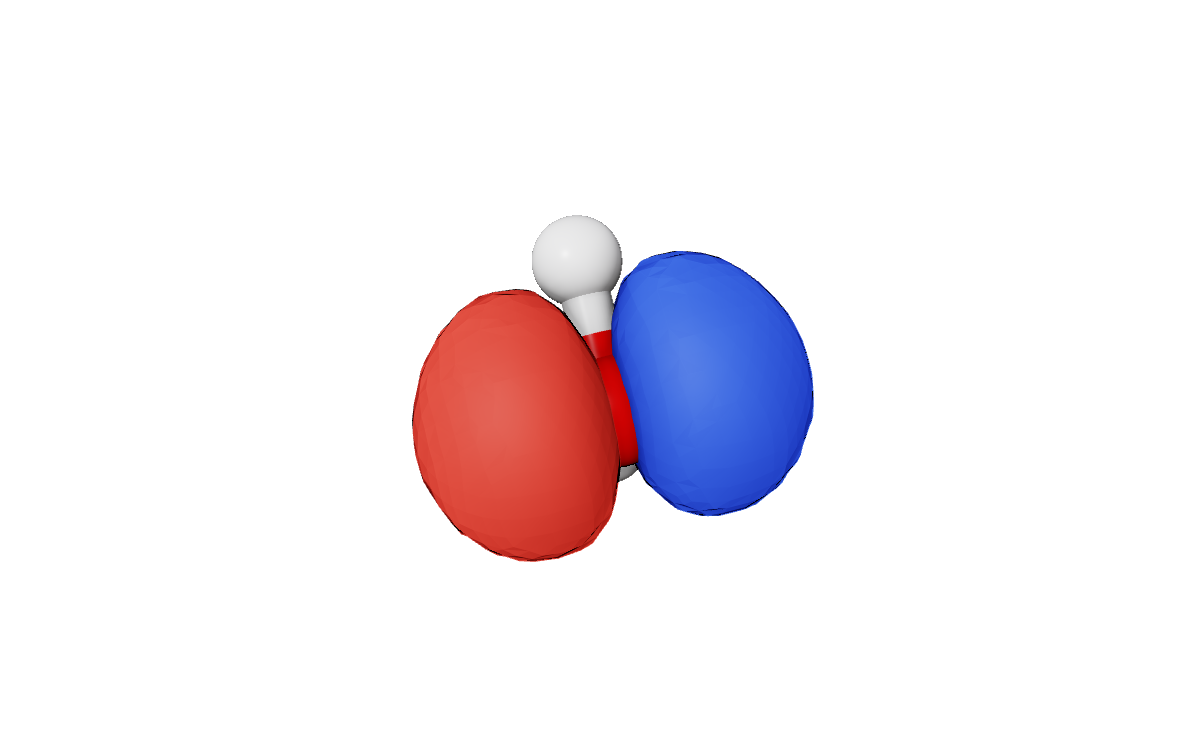
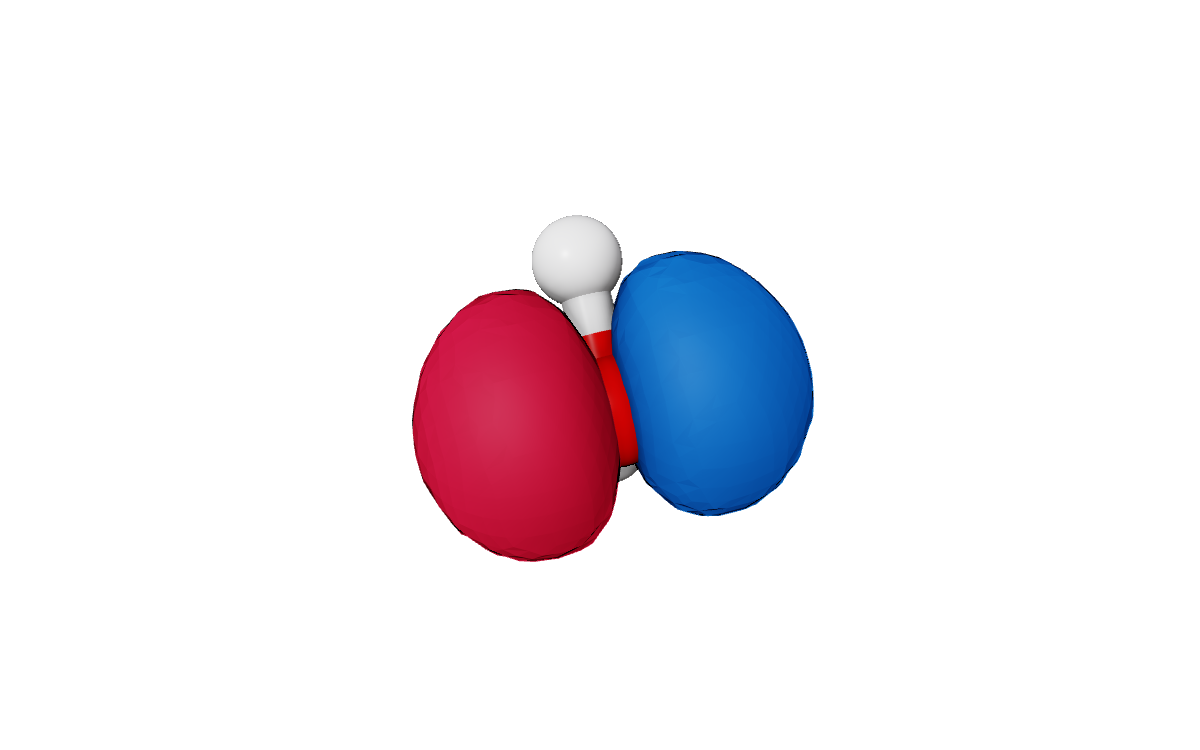
Orbital lobes in deep azure and crimson, apart from the N and O atom colors
The default blue/red had the hues of the CPK N and O colors (CIEDE2000 3.4
and 7.8), so lobes on those atoms merged with them. Deep azure (20, 95, 170)
and crimson (175, 25, 60) stay blue and red but are 12.8 from N and 21.8
from O. Reference scenes use the new pair; guide pictures regenerated.

Changed region(s): [[0.3392, 0.3373, 0.6783, 0.7667]]

diff --git a/crates/app/tests/render_reference.rs b/crates/app/tests/render_reference.rs
@@ -74,17 +74,17 @@ fn orbital(orbital: usize, opacity: f32, refinement: usize, set: Option<&str>, b
     let set = set.map(|s| format!("orbital_set = \"{s}\"\n")).unwrap_or_default();
     format!(
         "[[structures.surfaces]]\nlabel = \"orbital\"\nvisible = true\nisovalue = 0.075\nrefinement = {refinement}\nboth_signs = true\n\
-         positive_color = [60, 90, 230, 255]\nnegative_color = [220, 70, 60, 255]\nopacity = {opacity}\nby_fragment = {by_fragment}\n\
+         positive_color = [20, 95, 170, 255]\nnegative_color = [175, 25, 60, 255]\nopacity = {opacity}\nby_fragment = {by_fragment}\n\
          kind = \"orbital\"\nspin = \"alpha\"\norbital = {orbital}\ngrid_spacing_bohr = 0.28\nbox_padding_bohr = 4.0\n{set}"
     )
 }
 
 /// The total or spin density (opaque; see `translucent`).
 fn density(spin: bool) -> String {
-    let (isovalue, both, positive) = if spin { (0.01, true, "[60, 90, 230, 255]") } else { (0.1, false, "[120, 160, 210, 255]") };
+    let (isovalue, both, positive) = if spin { (0.01, true, "[20, 95, 170, 255]") } else { (0.1, false, "[120, 160, 210, 255]") };
     format!(
         "[[structures.surfaces]]\nlabel = \"density\"\nvisible = true\nisovalue = {isovalue}\nrefinement = 1\nboth_signs = {both}\n\
-         positive_color = {positive}\nnegative_color = [220, 70, 60, 255]\nopacity = 1.0\nby_fragment = false\n\
+         positive_color = {positive}\nnegative_color = [175, 25, 60, 255]\nopacity = 1.0\nby_fragment = false\n\
          kind = \"density\"\nspin_density = {spin}\ngrid_spacing_bohr = 0.28\nbox_padding_bohr = 4.0\n"
     )
 }
@@ -95,8 +95,8 @@ fn translucent(surface: String, opacity: f32, colors: Option<(&str, &str)>) -> S
     let surface = surface.replace("opacity = 1.0", &format!("opacity = {opacity}")).replace("opacity = 1\n", &format!("opacity = {opacity}\n"));
     match colors {
         Some((positive, negative)) => surface
-            .replace("positive_color = [60, 90, 230, 255]", &format!("positive_color = {positive}"))
-            .replace("negative_color = [220, 70, 60, 255]", &format!("negative_color = {negative}")),
+            .replace("positive_color = [20, 95, 170, 255]", &format!("positive_color = {positive}"))
+            .replace("negative_color = [175, 25, 60, 255]", &format!("negative_color = {negative}")),
         None => surface,
     }
 }

diff --git a/crates/app/src/isosurfaces.rs b/crates/app/src/isosurfaces.rs
@@ -54,14 +54,22 @@ pub(crate) struct SurfaceSettings {
     pub(crate) by_fragment: bool,
 }
 
+/// Deep azure and crimson, chosen from comparison renders (2026-10-22):
+/// still blue and red, but deeper and slightly shifted in hue so a lobe on
+/// an N (CPK #3050F8) or O (#FF0D0D) atom doesn't merge with it (CIEDE2000
+/// 12.8 from N and 21.8 from O, was 3.4 and 7.8). Brighter hue shifts turn
+/// cyan and pink after tone mapping.
+const POSITIVE_COLOR: Color32 = Color32::from_rgb(20, 95, 170);
+const NEGATIVE_COLOR: Color32 = Color32::from_rgb(175, 25, 60);
+
 impl Default for SurfaceSettings {
     fn default() -> Self {
         Self {
             isovalue: DEFAULT_ISOSURFACE_ISOVALUE,
             refinement: 1,
             both_signs: true,
-            positive_color: Color32::from_rgb(60, 90, 230),
-            negative_color: Color32::from_rgb(220, 70, 60),
+            positive_color: POSITIVE_COLOR,
+            negative_color: NEGATIVE_COLOR,
             opacity: DEFAULT_ISOSURFACE_OPACITY,
             by_fragment: false,
         }
